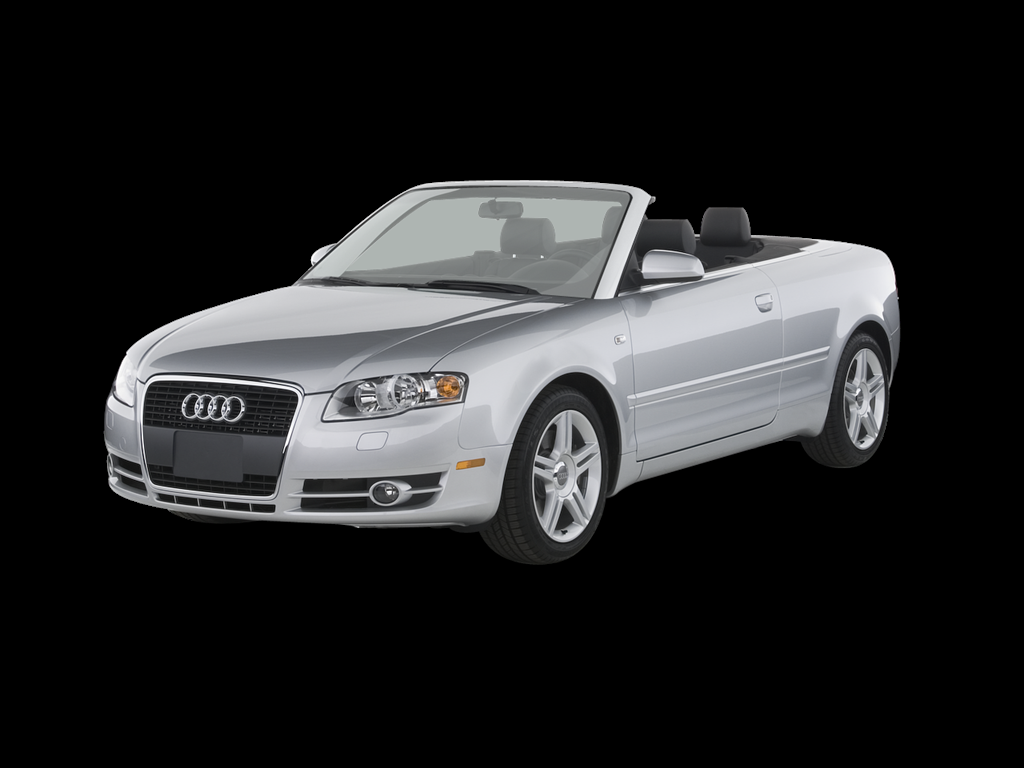
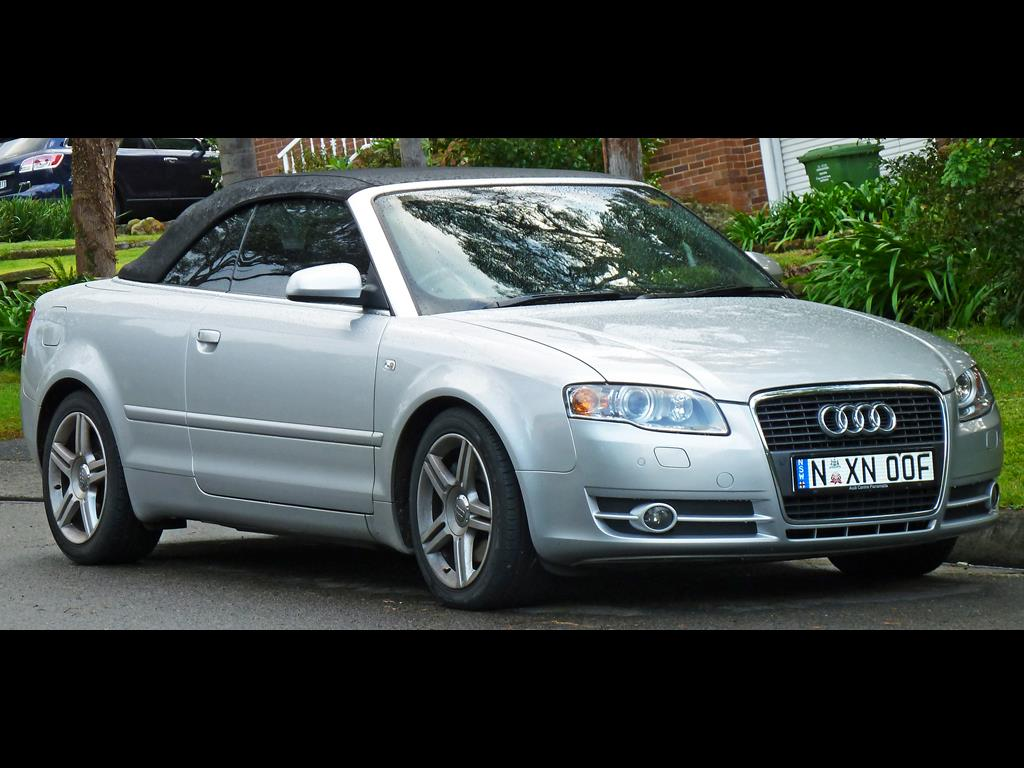
fixing aws publish profile and intro background image

diff --git a/CarChooser/Scripts/App/CarEdit.js b/CarChooser/Scripts/App/CarEdit.js
@@ -41,7 +41,7 @@
        $scope.getCars();
 
        $scope.replaceImage = function () {
-           var query = $scope.viewModel[$scope.CurrentCarIndex].Manufacturer + '+' + $scope.viewModel[$scope.CurrentCarIndex].Model + '+' + $scope.viewModel[$scope.CurrentCarIndex].YearFrom;
+           var query = $scope.viewModel[$scope.CurrentCarIndex].Manufacturer + '+' + $scope.viewModel[$scope.CurrentCarIndex].Model + '+' + $scope.viewModel[$scope.CurrentCarIndex].Derivative + '+' + $scope.viewModel[$scope.CurrentCarIndex].YearFrom + '+' + $scope.viewModel[$scope.CurrentCarIndex].YearTo;
            $window.open('https://www.google.co.uk/search?espv=2&biw=1745&bih=814&source=lnms&tbm=isch&sa=X&ei=j_tNVdvjN8OC7gaxvIE4&ved=0CAYQ_AUoAQ#tbs=isc:black%2Cic:trans%2Cisz:l&tbm=isch&q=' + query);
            $scope.replacingImage = true;
        };
